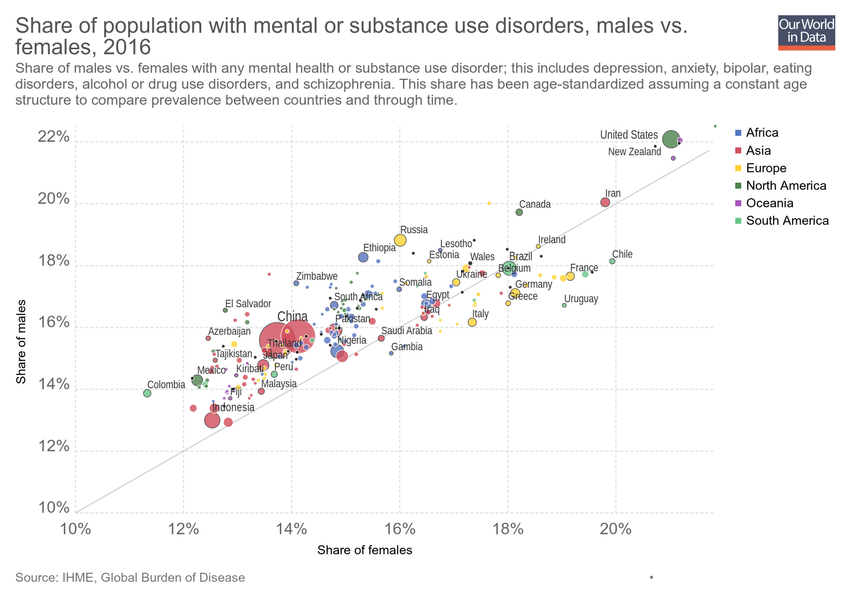
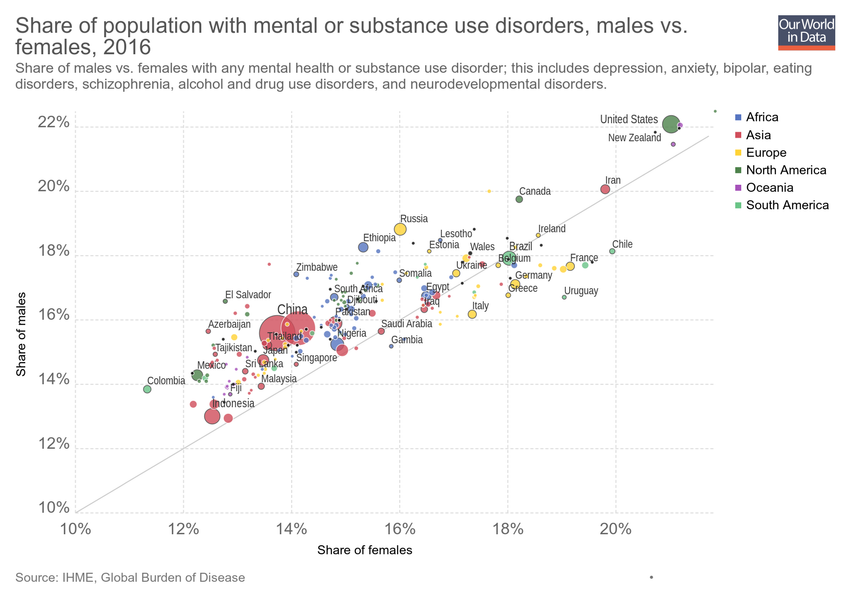
Updating chart share-with-mental-or-substance-disorders-males-vs-females

diff --git a/grapher/share-with-mental-or-substance-disorders-males-vs-females.html b/grapher/share-with-mental-or-substance-disorders-males-vs-females.html
@@ -1,4 +1,4 @@
-<!doctype html><html><head><meta name="viewport" content="width=device-width, initial-scale=1" /><title>Share of population with mental or substance use disorders, males vs. females - Our World in Data</title><meta name="description" content="Share of males vs. females with any mental health or substance use disorder; this includes depression, anxiety, bipolar, eating disorders, alcohol or drug use disorders, and schizophrenia. This share has been age-standardized assuming a constant age structure to compare prevalence between countries and through time." /><link rel="canonical" href="https://ourworldindata.org/grapher/share-with-mental-or-substance-disorders-males-vs-females" /><meta property="fb:app_id" content="1149943818390250" /><meta property="og:url" content="https://ourworldindata.org/grapher/share-with-mental-or-substance-disorders-males-vs-females" /><meta property="og:title" content="Share of population with mental or substance use disorders, males vs. females" /><meta property="og:description" content="Share of males vs. females with any mental health or substance use disorder; this includes depression, anxiety, bipolar, eating disorders, alcohol or drug use disorders, and schizophrenia. This share has been age-standardized assuming a constant age structure to compare prevalence between countries and through time." /><meta property="og:image" content="https://ourworldindata.org/grapher/exports/share-with-mental-or-substance-disorders-males-vs-females.png?v=3" /><meta property="og:image:width" content="850" /><meta property="og:image:height" content="600" /><meta property="og:site_name" content="Our World in Data" /><meta name="twitter:card" content="summary_large_image" /><meta name="twitter:site" content="@OurWorldInData" /><meta name="twitter:creator" content="@OurWorldInData" /><meta name="twitter:title" content="Share of population with mental or substance use disorders, males vs. females" /><meta name="twitter:description" content="Share of males vs. females with any mental health or substance use disorder; this includes depression, anxiety, bipolar, eating disorders, alcohol or drug use disorders, and schizophrenia. This share has been age-standardized assuming a constant age structure to compare prevalence between countries and through time." /><meta name="twitter:image" content="https://ourworldindata.org/grapher/exports/share-with-mental-or-substance-disorders-males-vs-females.png?v=3" /><style>
+<!doctype html><html><head><meta name="viewport" content="width=device-width, initial-scale=1" /><title>Share of population with mental or substance use disorders, males vs. females - Our World in Data</title><meta name="description" content="Share of males vs. females with any mental health or substance use disorder; this includes depression, anxiety, bipolar, eating disorders, schizophrenia, alcohol and drug use disorders, and neurodevelopmental disorders." /><link rel="canonical" href="https://ourworldindata.org/grapher/share-with-mental-or-substance-disorders-males-vs-females" /><meta property="fb:app_id" content="1149943818390250" /><meta property="og:url" content="https://ourworldindata.org/grapher/share-with-mental-or-substance-disorders-males-vs-females" /><meta property="og:title" content="Share of population with mental or substance use disorders, males vs. females" /><meta property="og:description" content="Share of males vs. females with any mental health or substance use disorder; this includes depression, anxiety, bipolar, eating disorders, schizophrenia, alcohol and drug use disorders, and neurodevelopmental disorders." /><meta property="og:image" content="https://ourworldindata.org/grapher/exports/share-with-mental-or-substance-disorders-males-vs-females.png?v=4" /><meta property="og:image:width" content="850" /><meta property="og:image:height" content="600" /><meta property="og:site_name" content="Our World in Data" /><meta name="twitter:card" content="summary_large_image" /><meta name="twitter:site" content="@OurWorldInData" /><meta name="twitter:creator" content="@OurWorldInData" /><meta name="twitter:title" content="Share of population with mental or substance use disorders, males vs. females" /><meta name="twitter:description" content="Share of males vs. females with any mental health or substance use disorder; this includes depression, anxiety, bipolar, eating disorders, schizophrenia, alcohol and drug use disorders, and neurodevelopmental disorders." /><meta name="twitter:image" content="https://ourworldindata.org/grapher/exports/share-with-mental-or-substance-disorders-males-vs-females.png?v=4" /><style>
         html, body {
             height: 100%;
             margin: 0;
@@ -20,8 +20,8 @@
         }
     </style><noscript><style>
                     figure { display: none !important; }
-                </style></noscript><link rel="stylesheet" href="https://ourworldindata.org/grapher/assets/commons.bundle.dcbbe53805c487d5e57617b10ac73a8a.css" /><link rel="preload" href="/grapher/data/variables/85220+85221+72+123.json?v=3" as="fetch" crossorigin /></head><body class="singleChart"><figure data-grapher-src="/grapher/share-with-mental-or-substance-disorders-males-vs-females"></figure><noscript id="fallback"><img src="/grapher/exports/share-with-mental-or-substance-disorders-males-vs-females.svg" /><p>Interactive visualization requires JavaScript</p></noscript><script src="https://cdn.polyfill.io/v2/polyfill.min.js?features=es6,fetch"></script><script src="https://ourworldindata.org/grapher/assets/commons.bundle.4bbda1a4aa3b9e1fddc7.js"></script><script src="https://ourworldindata.org/grapher/assets/charts.bundle.4bbda1a4aa3b9e1fddc7.js"></script><script>
-        var jsonConfig = {"id":2137,"map":{"projection":"World","colorSchemeLabels":[],"colorSchemeValues":[],"defaultProjection":"World","colorSchemeMinValue":0,"customNumericColors":[],"customCategoryColors":{},"customCategoryLabels":{},"customHiddenCategories":{}},"tab":"chart","slug":"share-with-mental-or-substance-disorders-males-vs-females","type":"ScatterPlot","title":"Share of population with mental or substance use disorders, males vs. females","xAxis":{"min":10,"scaleType":"linear"},"yAxis":{"min":10,"scaleType":"linear"},"maxTime":2016,"minTime":2016,"version":3,"subtitle":"Share of males vs. females with any mental health or substance use disorder; this includes depression, anxiety, bipolar, eating disorders, alcohol or drug use disorders, and schizophrenia. This share has been age-standardized assuming a constant age structure to compare prevalence between countries and through time.","hasMapTab":false,"stackMode":"absolute","dimensions":[{"display":{"name":"Share of males","unit":"%"},"property":"y","variableId":85220},{"display":{"name":"Share of females","unit":"%"},"property":"x","variableId":85221},{"display":{},"property":"size","variableId":72},{"display":{},"property":"color","variableId":123}],"sourceDesc":"IHME, Global Burden of Disease","hasChartTab":true,"isPublished":true,"selectedData":[],"comparisonLine":{}};
+                </style></noscript><link rel="stylesheet" href="https://ourworldindata.org/grapher/assets/commons.bundle.dcbbe53805c487d5e57617b10ac73a8a.css" /><link rel="preload" href="/grapher/data/variables/85220+85221+72+123.json?v=4" as="fetch" crossorigin /></head><body class="singleChart"><figure data-grapher-src="/grapher/share-with-mental-or-substance-disorders-males-vs-females"></figure><noscript id="fallback"><img src="/grapher/exports/share-with-mental-or-substance-disorders-males-vs-females.svg" /><p>Interactive visualization requires JavaScript</p></noscript><script src="https://cdn.polyfill.io/v2/polyfill.min.js?features=es6,fetch"></script><script src="https://ourworldindata.org/grapher/assets/commons.bundle.4bbda1a4aa3b9e1fddc7.js"></script><script src="https://ourworldindata.org/grapher/assets/charts.bundle.4bbda1a4aa3b9e1fddc7.js"></script><script>
+        var jsonConfig = {"id":2137,"map":{"projection":"World","colorSchemeLabels":[],"colorSchemeValues":[],"colorSchemeMinValue":0,"customNumericColors":[],"customCategoryColors":{},"customCategoryLabels":{},"customHiddenCategories":{}},"tab":"chart","slug":"share-with-mental-or-substance-disorders-males-vs-females","type":"ScatterPlot","title":"Share of population with mental or substance use disorders, males vs. females","xAxis":{"min":10,"scaleType":"linear"},"yAxis":{"min":10,"scaleType":"linear"},"maxTime":2016,"minTime":2016,"version":4,"subtitle":"Share of males vs. females with any mental health or substance use disorder; this includes depression, anxiety, bipolar, eating disorders, schizophrenia, alcohol and drug use disorders, and neurodevelopmental disorders.","hasMapTab":false,"stackMode":"absolute","dimensions":[{"display":{"name":"Share of males","unit":"%"},"property":"y","variableId":85220},{"display":{"name":"Share of females","unit":"%"},"property":"x","variableId":85221},{"display":{},"property":"size","variableId":72},{"display":{},"property":"color","variableId":123}],"sourceDesc":"IHME, Global Burden of Disease","hasChartTab":true,"isPublished":true,"selectedData":[],"comparisonLine":{}};
         var figure = document.getElementsByTagName("figure")[0];
         try {
             window.App = {};
